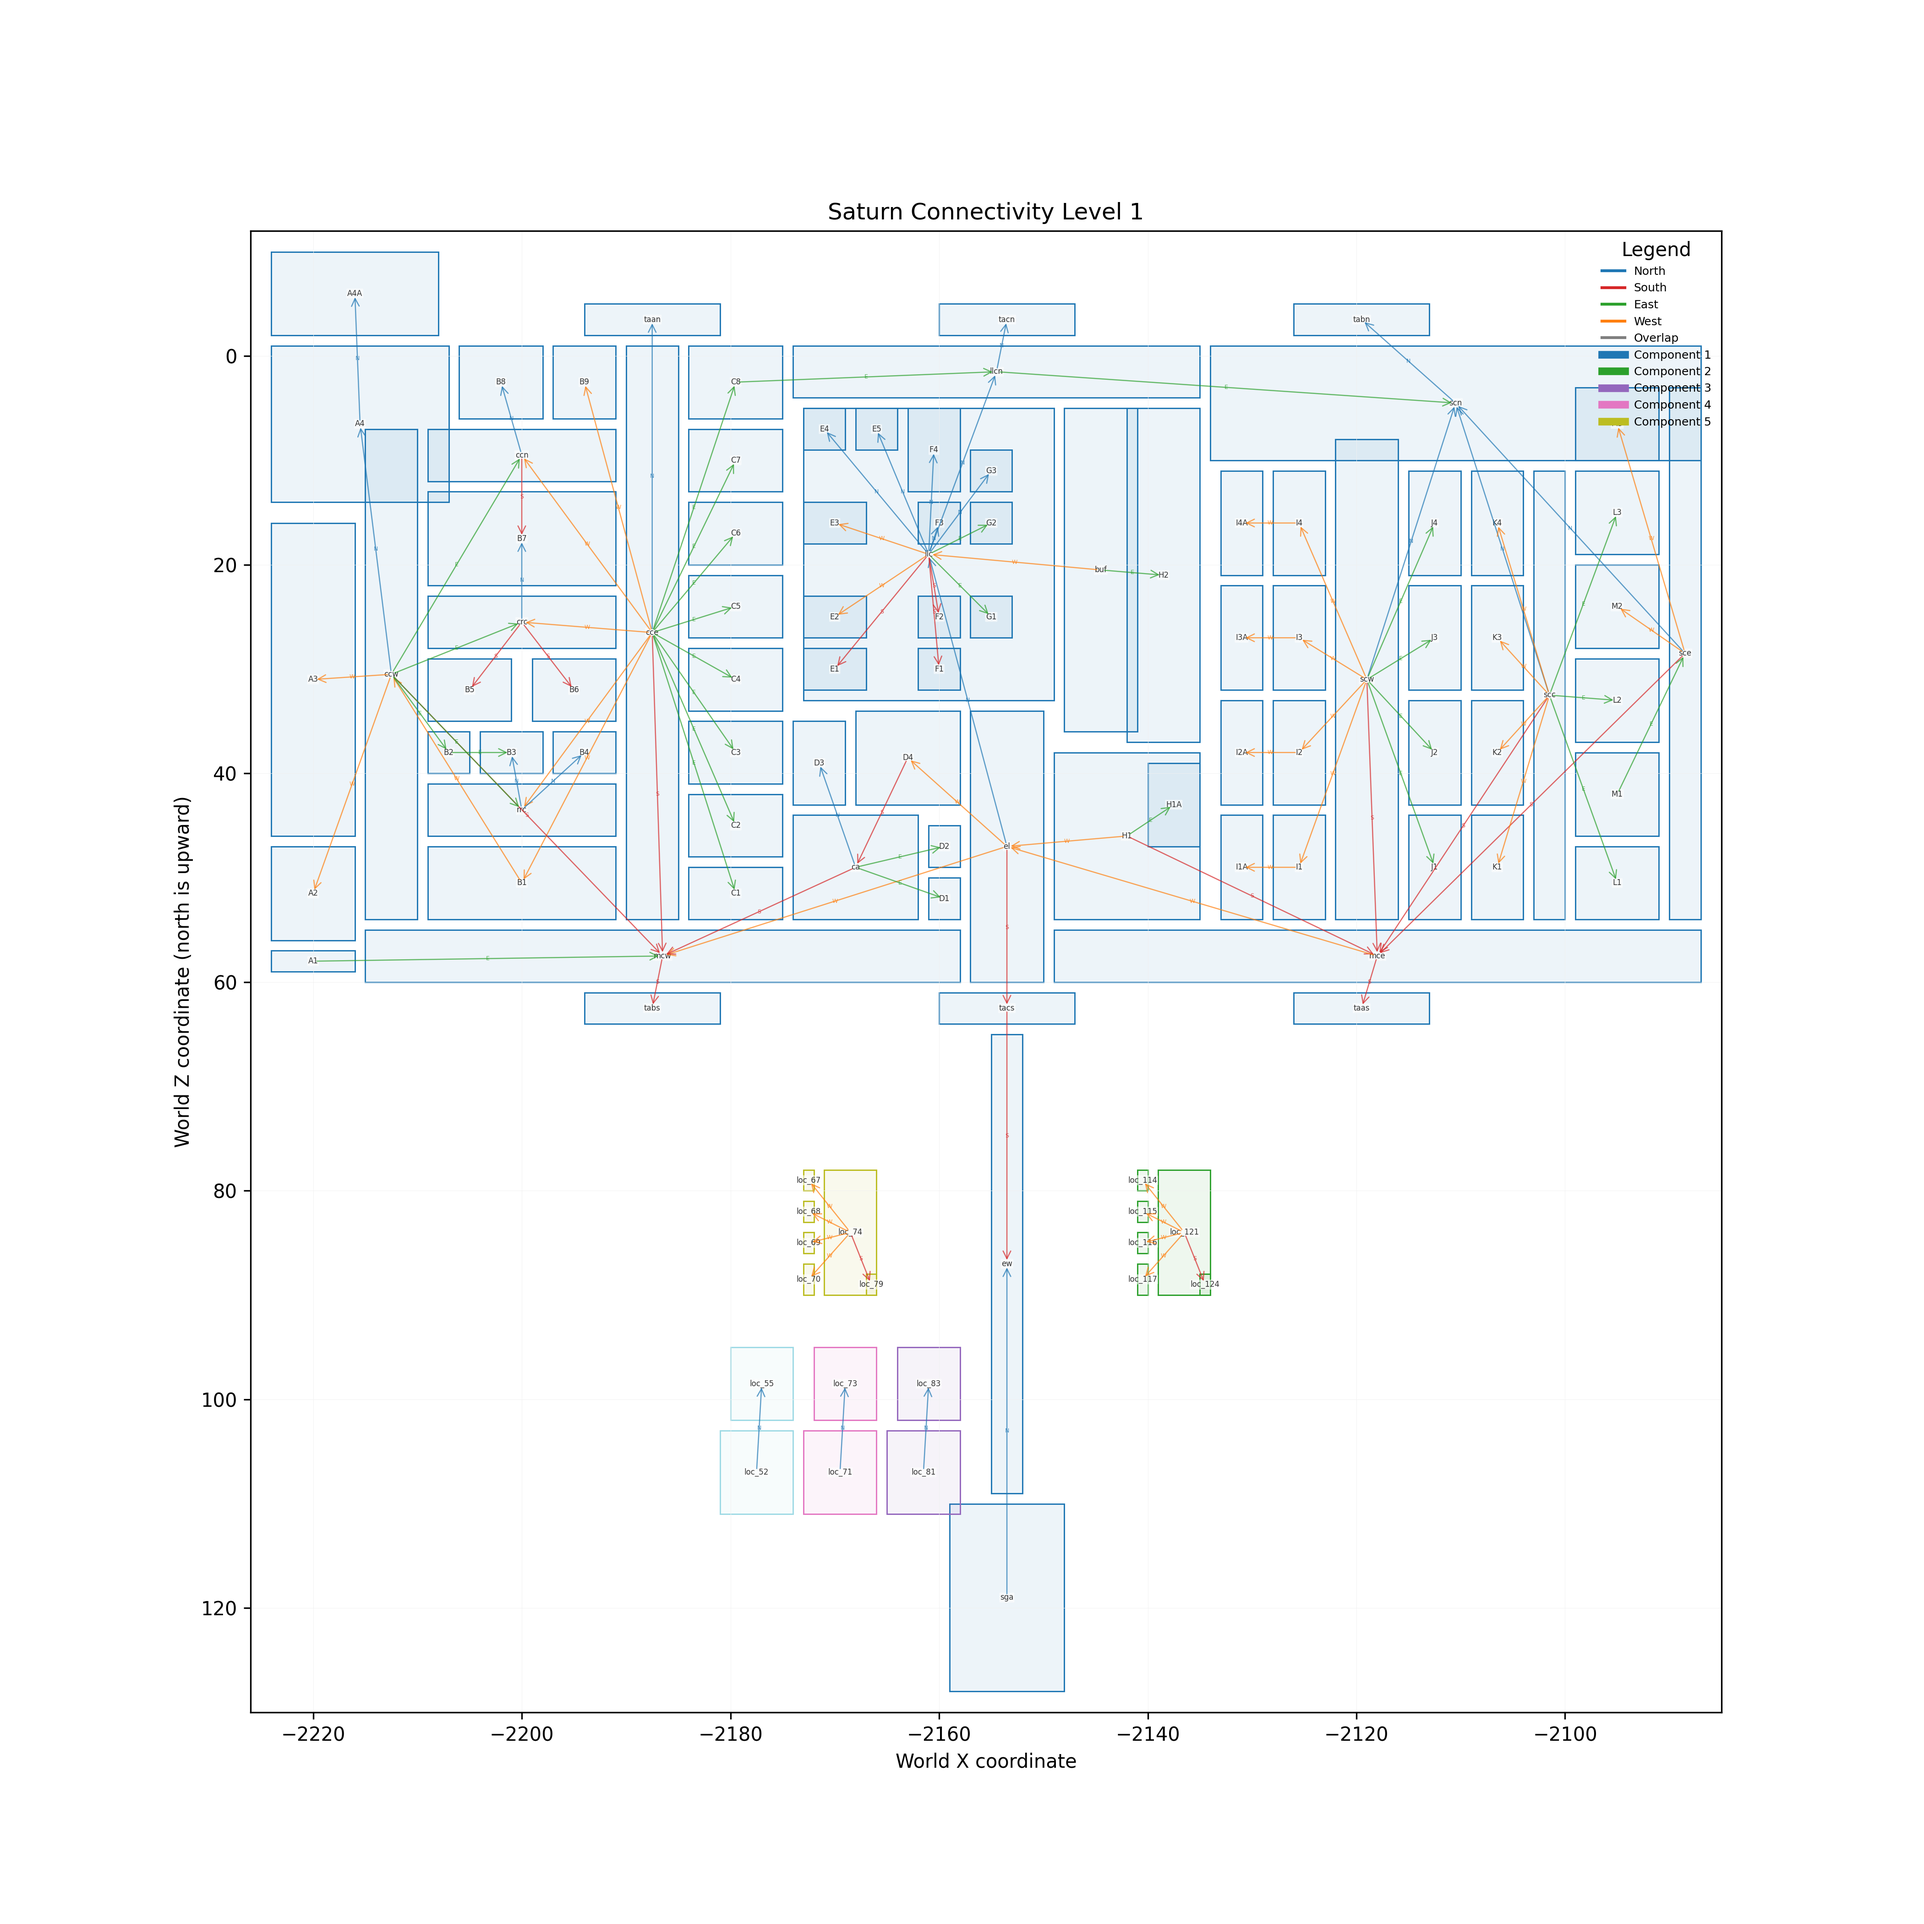
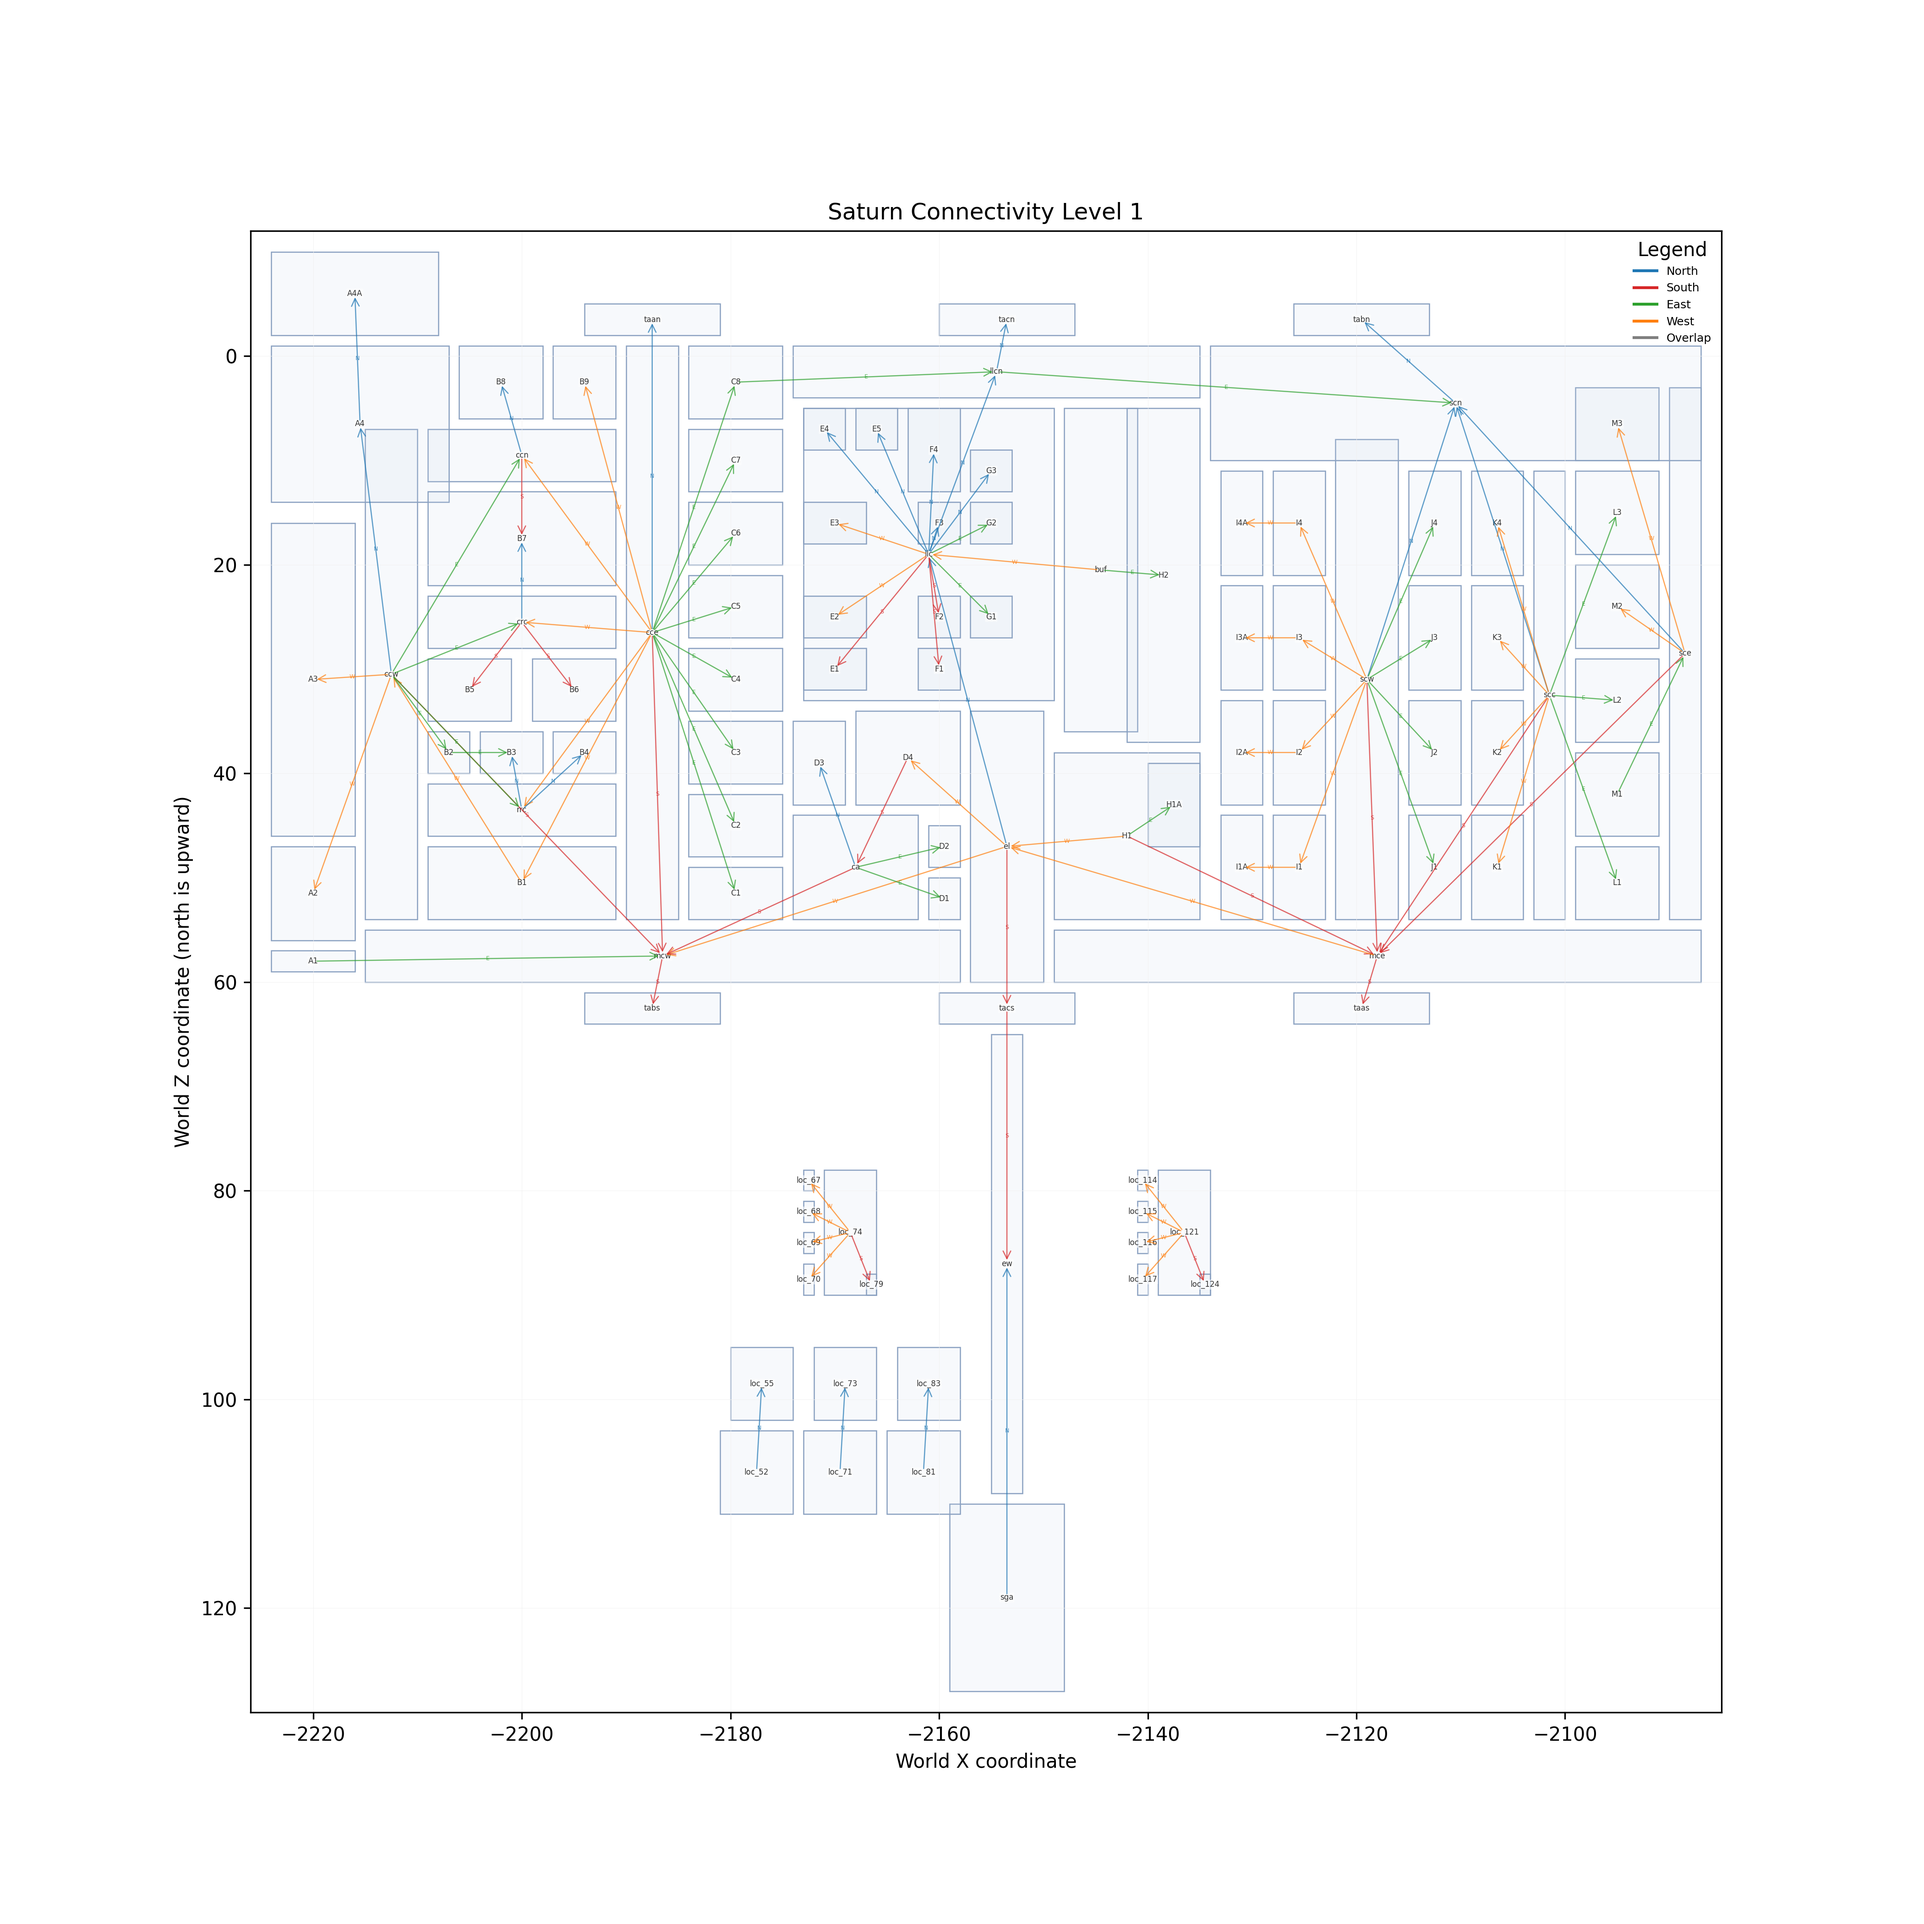
chore: simplify connectivity visuals

Changed region(s): [[0.811, 0.1248, 0.9045, 0.2495]]

diff --git a/utils/build_saturn_connectivity.py b/utils/build_saturn_connectivity.py
@@ -315,7 +315,7 @@ def plot_level(
     level: str,
     graph: Mapping[str, Mapping[Direction, Sequence[str]]],
     bounds: Mapping[str, BoundingBox],
-    components: Sequence[Sequence[str]],
+    components: Sequence[Sequence[str]],  # kept for logging context, unused
     output_dir: Path,
 ) -> None:
     level_bounds = {node: bounds[node] for node in graph.keys() if node in bounds}
@@ -329,12 +329,6 @@ def plot_level(
     max_z = max(b.max_z for b in level_bounds.values())
     margin = 2.0
 
-    component_palette = plt.get_cmap("tab20", max(len(components), 1))
-    component_lookup: Dict[str, int] = {}
-    for idx, component in enumerate(components):
-        for node in component:
-            component_lookup[node] = idx
-
     fig, ax = plt.subplots(figsize=(14, 14))
     ax.set_aspect("equal", adjustable="box")
     ax.set_title(f"Saturn Connectivity Level {level}")
@@ -342,15 +336,13 @@ def plot_level(
     ax.set_ylabel("World Z coordinate (north is upward)")
 
     for node, bbox in level_bounds.items():
-        component_idx = component_lookup.get(node, 0)
-        base_color = component_palette(component_idx)
         rect = Rectangle(
             (bbox.min_x, bbox.min_z),
             bbox.width,
             bbox.height,
-            facecolor=(*base_color[:3], 0.08),
-            edgecolor=base_color,
-            linewidth=0.7,
+            facecolor=(0.8, 0.85, 0.93, 0.15),
+            edgecolor="#8aa1c1",
+            linewidth=0.6,
         )
         ax.add_patch(rect)
         cx, cz = bbox.center
@@ -414,14 +406,8 @@ def plot_level(
         Line2D([], [], color=color, lw=1.5, label=direction.title())
         for direction, color in ARROW_COLORS.items()
     ]
-    component_handles: List[Line2D] = []
-    for idx in range(min(len(components), 5)):
-        color = component_palette(idx)
-        component_handles.append(
-            Line2D([], [], color=color, lw=4, label=f"Component {idx+1}")
-        )
     legend = ax.legend(
-        handles=orientation_handles + component_handles,
+        handles=orientation_handles,
         fontsize=6,
         loc="upper right",
         frameon=False,
